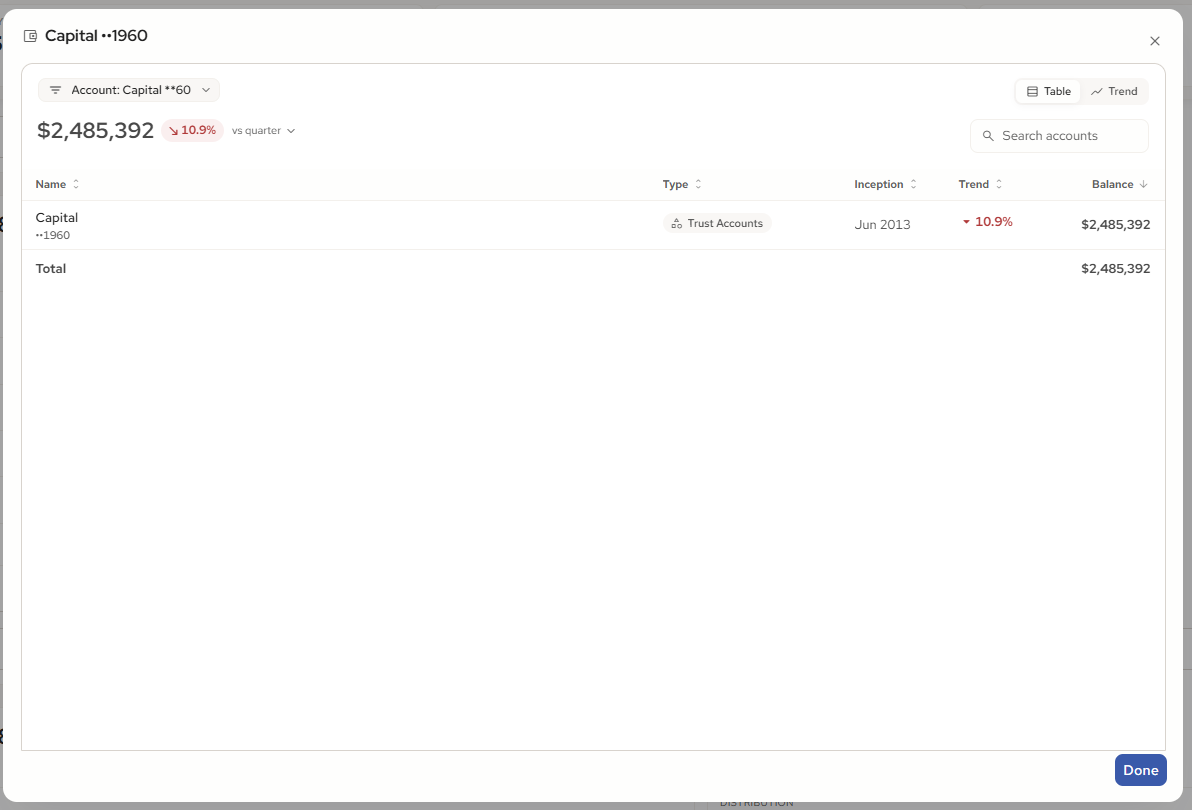
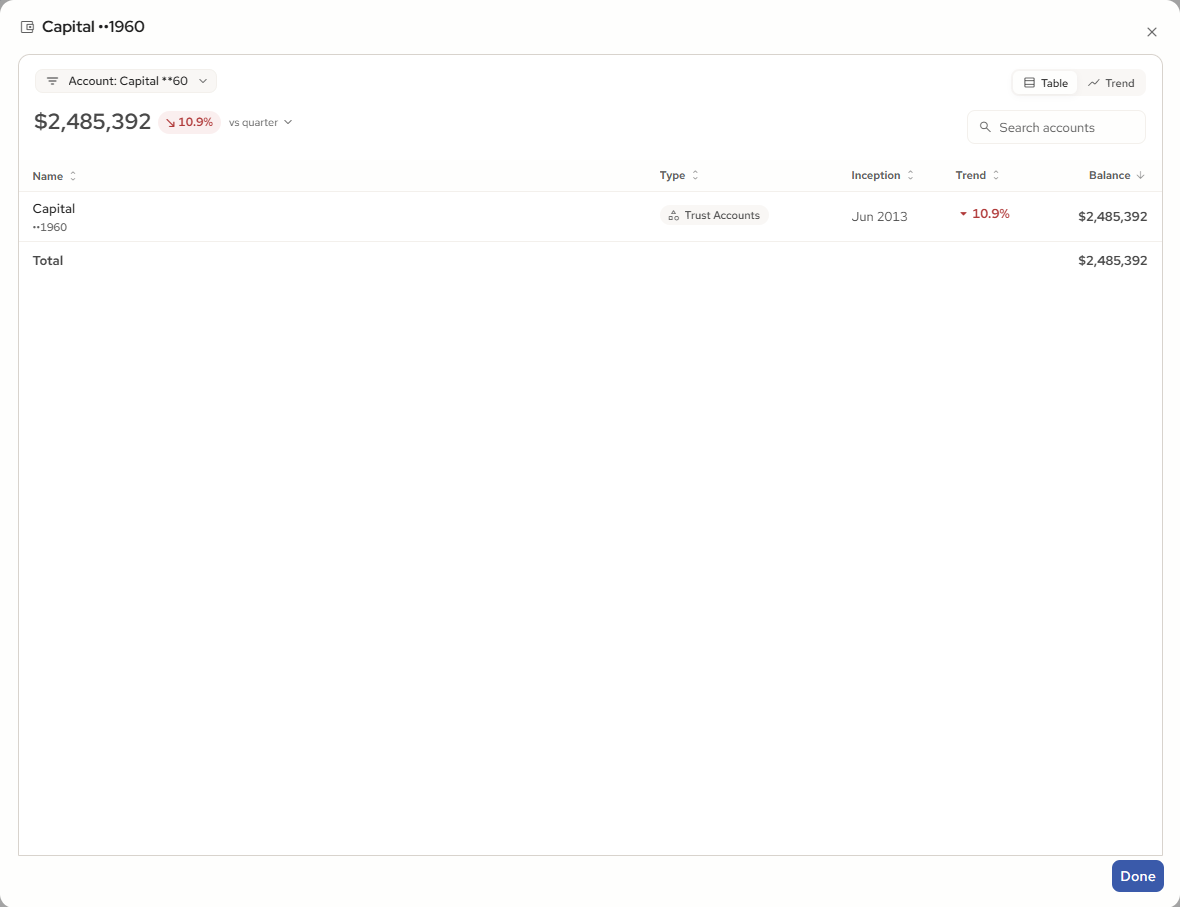
Deposits on Hand: account pop-up no longer hides Done on short windows
The 6 Oct pop-up rebuild gave the embedded card a 620px floor and the plot a 380px floor; inside the 84vh wide-modal frame that pushed the footer out of view on ~900px windows. Floors removed: the card flexes to the frame, the plot keeps a 180px minimum, and the body scrolls below that so the footer always stays. Checked headless at 1920x1080, 1920x889, 1366x700 and 1280x600 (Done on screen, inside the frame, hit-testable). Pop-up screenshots 07 and 08 retaken; old ones under _superseded.

diff --git a/_tools/one-off/shoot-w07-popup-2026-10-06.js b/_tools/one-off/shoot-w07-popup-2026-10-06.js
@@ -1,0 +1,87 @@
+/* One-off: Deposits on Hand account pop-up after the 6 Oct height fix.
+   Opens the pop-up for the Capital account in headless Chrome (DevTools protocol, Node 22 WebSocket, no packages),
+   checks the Done button is on screen and not covered at a normal window (1920x1080) and a short one (1366x700),
+   and retakes "W07-V2-07 Pop-up - Account trend.png" and "W07-V2-08 Pop-up - Account table.png" at 1920.
+   Run: node _tools/one-off/shoot-w07-popup-2026-10-06.js */
+"use strict";
+const { spawn } = require("child_process"), fs = require("fs"), path = require("path"), os = require("os");
+const ROOT = path.join(__dirname, "..", ".."), PORT = 8766, DBG = 9334;
+const CHROME = "C:/Program Files/Google/Chrome/Application/chrome.exe";
+const OUT = path.join(ROOT, "docs/Pics/Version 2/W07 - Deposits on Hand");
+const sleep = ms => new Promise(r => setTimeout(r, ms));
+const log = (...a) => console.log(new Date().toISOString().slice(11, 19), ...a);
+setTimeout(() => { console.error("WATCHDOG: 150s elapsed, aborting"); process.exit(2); }, 150000);
+(async () => {
+  const server = spawn(process.execPath, [path.join(ROOT, "_tools/serve.js"), String(PORT)], { stdio: "ignore" });
+  const prof = fs.mkdtempSync(path.join(os.tmpdir(), "shoot-"));
+  const chrome = spawn(CHROME, ["--headless=new", "--remote-debugging-port=" + DBG, "--window-size=1920,1080", "--hide-scrollbars", "--no-first-run", "--user-data-dir=" + prof, "about:blank"], { stdio: "ignore" });
+  const kill = () => { try { chrome.kill(); } catch (e) {} try { server.kill(); } catch (e) {} };
+  process.on("exit", kill);
+  let ver = null; for (let i = 0; i < 40 && !ver; i++) { try { ver = await (await fetch(`http://127.0.0.1:${DBG}/json/version`)).json(); } catch (e) { await sleep(250); } }
+  if (!ver) throw new Error("chrome did not start");
+  const ws = new WebSocket(ver.webSocketDebuggerUrl); await new Promise(r => ws.onopen = r);
+  let id = 0; const pending = new Map(), listeners = [];
+  ws.onmessage = ev => { const m = JSON.parse(ev.data); if (m.id && pending.has(m.id)) { const p = pending.get(m.id); pending.delete(m.id); m.error ? p.rej(new Error(JSON.stringify(m.error))) : p.res(m.result); } else if (m.method) listeners.forEach(l => l(m)); };
+  const send = (method, params, sessionId) => new Promise((res, rej) => { const i = ++id; pending.set(i, { res, rej }); ws.send(JSON.stringify({ id: i, method, params: params || {}, sessionId })); });
+  const { targetId } = await send("Target.createTarget", { url: "about:blank" });
+  const { sessionId: S } = await send("Target.attachToTarget", { targetId, flatten: true });
+  await send("Page.enable", {}, S); await send("Runtime.enable", {}, S);
+  const evalJS = async (expr) => { const r = await send("Runtime.evaluate", { expression: expr, awaitPromise: true, returnByValue: true }, S); if (r.exceptionDetails) throw new Error(r.exceptionDetails.text + " " + JSON.stringify(r.exceptionDetails.exception)); return r.result.value; };
+  const setViewport = (w, h) => send("Emulation.setDeviceMetricsOverride", { width: w, height: h, deviceScaleFactor: 1, mobile: false }, S);
+  const goto = async (hash) => {
+    const loaded = new Promise(r => { const l = m => { if (m.method === "Page.loadEventFired" && m.sessionId === S) { listeners.splice(listeners.indexOf(l), 1); r(); } }; listeners.push(l); });
+    await send("Page.navigate", { url: `http://127.0.0.1:${PORT}/index.html${hash}` }, S);
+    await Promise.race([loaded, sleep(15000)]);
+    await Promise.race([evalJS("document.fonts.ready.then(()=>true)"), sleep(8000)]); await sleep(600);
+  };
+  const click = async (sel) => { const ok = await evalJS(`(function(){var el=document.querySelector(${JSON.stringify(sel)});if(!el)return false;el.click();return true;})()`); if (!ok) throw new Error("no element: " + sel); await sleep(400); return ok; };
+  const shoot = async (sel, file) => {
+    const r = await evalJS(`(function(){var el=document.querySelector(${JSON.stringify(sel)});if(!el)return null;var b=el.getBoundingClientRect();return {x:b.left,y:b.top,w:b.width,h:b.height};})()`);
+    if (!r) throw new Error("no element to shoot: " + sel);
+    const shot = await send("Page.captureScreenshot", { format: "png", clip: { x: r.x, y: r.y, width: r.w, height: r.h, scale: 1 } }, S);
+    fs.writeFileSync(file, Buffer.from(shot.data, "base64")); log("saved", path.basename(file), Math.round(r.w) + "x" + Math.round(r.h));
+  };
+  const openPopup = async () => {
+    await goto("#k=deposits");
+    const sel = 'section.widget[data-id="depO"] [data-depo="pick-acct"][data-v="Capital"]';
+    const have = await evalJS(`!!document.querySelector(${JSON.stringify(sel)})`);
+    await click(have ? sel : 'section.widget[data-id="depO"] [data-depo="pick-acct"]');
+    await sleep(500);
+    if (!(await evalJS(`!!document.querySelector('.depo-acct-modal')`))) throw new Error("pop-up did not open");
+  };
+  const doneCheck = async (label) => {
+    const r = await evalJS(`(function(){
+      var m=document.querySelector('.depo-acct-modal'),b=m.querySelector('.modal-f .btn'),body=m.querySelector('.modal-b');
+      var mb=m.getBoundingClientRect(),bb=b.getBoundingClientRect();
+      var cx=bb.left+bb.width/2,cy=bb.top+bb.height/2,hit=document.elementFromPoint(cx,cy);
+      return {viewport:[innerWidth,innerHeight],modal:[Math.round(mb.top),Math.round(mb.bottom)],done:[Math.round(bb.top),Math.round(bb.bottom)],
+        doneOnScreen:bb.bottom<=innerHeight&&bb.top>=0, doneInsideModal:bb.bottom<=mb.bottom+0.5,
+        doneHitTest:!!(hit&&(hit===b||b.contains(hit))), bodyScrolls:body.scrollHeight>body.clientHeight+1,
+        plotH:Math.round((m.querySelector('.tr-plot')||{getBoundingClientRect:()=>({height:0})}).getBoundingClientRect().height)};})()`);
+    log(label, JSON.stringify(r));
+    if (!(r.doneOnScreen && r.doneInsideModal && r.doneHitTest)) { console.error("FAIL: Done button not fully visible at", label); process.exitCode = 1; }
+    return r;
+  };
+  // 1. normal window: checks + the two doc screenshots
+  await setViewport(1920, 1080);
+  await openPopup();
+  await doneCheck("1920x1080 trend");
+  await shoot(".depo-acct-modal", path.join(OUT, "W07-V2-07 Pop-up - Account trend.png"));
+  await click('.depo-acct-modal [data-depo="dep-view"][data-v="table"]');
+  await doneCheck("1920x1080 table");
+  await shoot(".depo-acct-modal", path.join(OUT, "W07-V2-08 Pop-up - Account table.png"));
+  // 2. the owner's window size from the screenshots, and a short laptop window
+  for (const [w, h] of [[1920, 889], [1366, 700], [1280, 600]]) {
+    await setViewport(w, h);
+    await openPopup();
+    await doneCheck(`${w}x${h} trend`);
+    await click('.depo-acct-modal [data-depo="dep-view"][data-v="table"]');
+    await doneCheck(`${w}x${h} table`);
+  }
+  // one small-window shot for the eye, not for the doc
+  await setViewport(1366, 700); await openPopup();
+  fs.mkdirSync(path.join(ROOT, "_tools/.tmp"), { recursive: true });
+  const full = await send("Page.captureScreenshot", { format: "png" }, S);
+  fs.writeFileSync(path.join(ROOT, "_tools/.tmp/w07-popup-1366x700.png"), Buffer.from(full.data, "base64")); log("saved _tools/.tmp/w07-popup-1366x700.png");
+  kill(); process.exit(process.exitCode || 0);
+})().catch(e => { console.error("FAILED", e); process.exit(1); });

diff --git a/index.html b/index.html
@@ -3084,8 +3084,9 @@
   /* account pop-up: own 560px modal shell so the shared .wt-row column widths fit */
 
 .depo-acct-modal.modal-wide{max-width:1180px;}
-.depo-acct-modal .depo-acct-mw{min-height:620px;}
-.depo-acct-modal .depo-acct-mw .tr-plot{min-height:380px;}
+.depo-acct-modal .modal-b{overflow:auto;} /* short windows: the body scrolls, the footer with Done stays in view */
+.depo-acct-modal .depo-acct-mw{flex:1;min-height:0;} /* fills whatever the 84vh frame leaves; no fixed floor (the 620px one hid Done on ~900px windows, 6 Oct) */
+.depo-acct-modal .depo-acct-mw .tr-plot{min-height:180px;} /* keeps the chart legible; below this the body scrolls rather than pushing Done out */
 
 
   .wt-row .dt-inc{flex:0 0 92px;}
